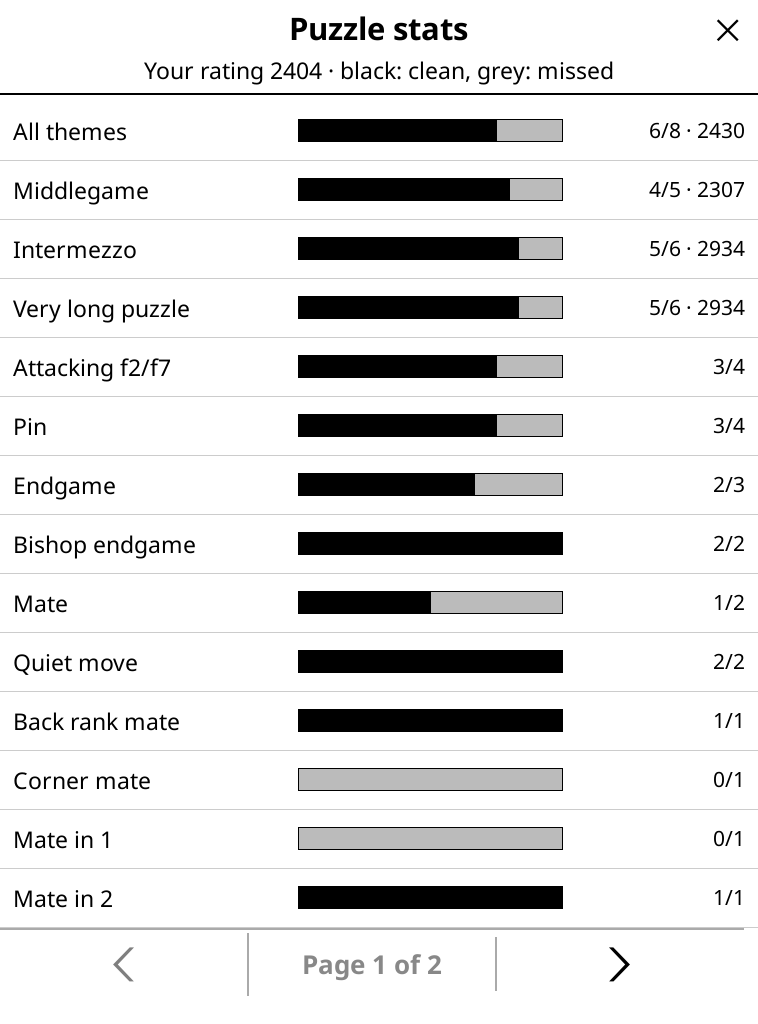
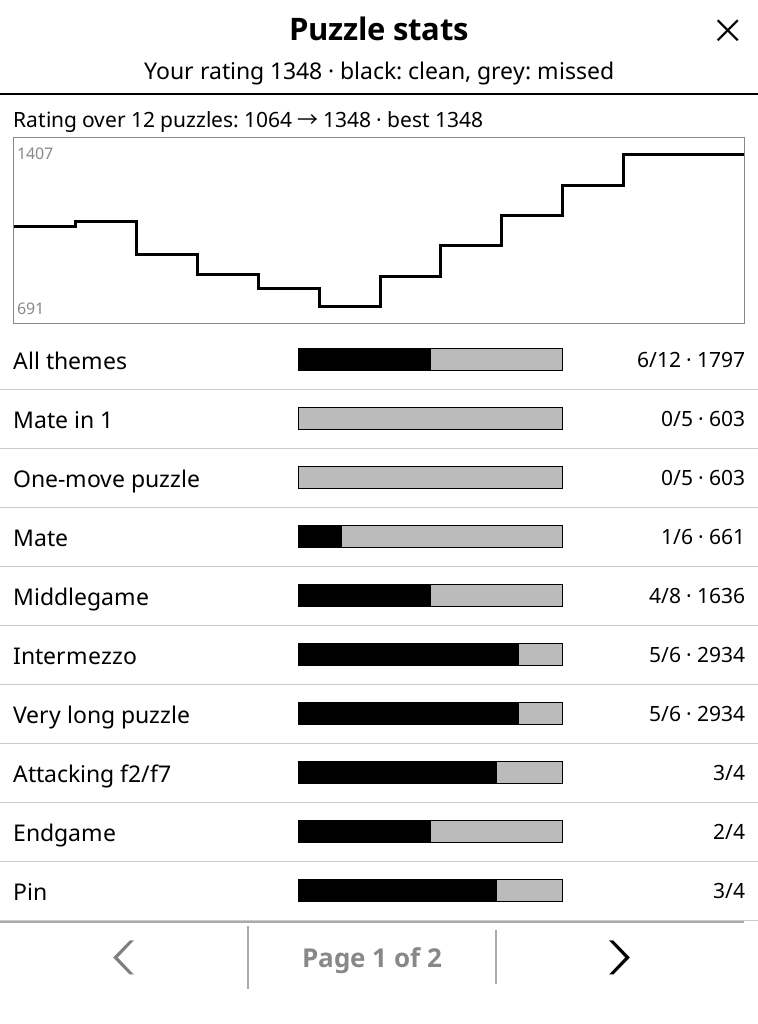
feat(puzzles): the stats page shows your rating over time

diff --git a/README.md b/README.md
@@ -25,7 +25,7 @@ tested on the Paperwhite 2: if you try it on another one,
 - **Puzzles** from the Lichess puzzle database, fully offline: a Glicko-2
   rating, puzzles picked around your level, a theme filter (forks, mates in
   2…), hints and solutions, and missed puzzles that come back after 3, 7
-  and 21 days. A stats page shows your results per theme, weakest first.
+  and 21 days. A stats page shows your rating over time and your results per theme, weakest first.
   Like a puzzle to come back to it later, or open any puzzle of the pack by
   its Lichess id.
 - **Studies**: any PGN or Lichess study, with chapters, variations,

diff --git a/docs/roadmap.md b/docs/roadmap.md
@@ -78,7 +78,7 @@ From [the project review](reviews/2026-11-11-project-review.md).
       KOReader on a Kobo and a PocketBook, device reports asked for
       (an issue form)
 - [ ] Stockfish for 64-bit e-readers (`aarch64`), if device reports ask
-- [ ] The rating over time on the puzzle stats page
+- [x] The rating over time on the puzzle stats page
 - [ ] Authenticate the installer (ADR-0019: pin or sign `install.sh`)
 
 ## Later / undecided
